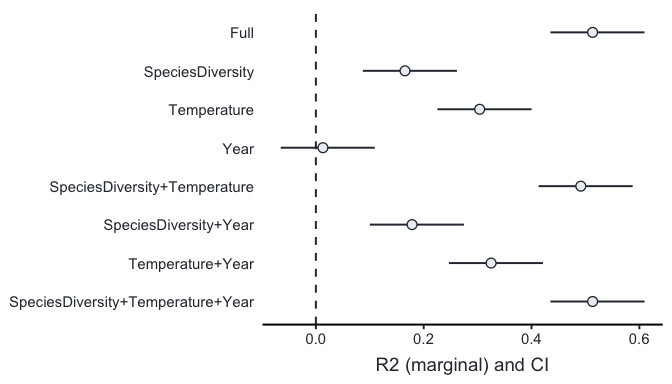
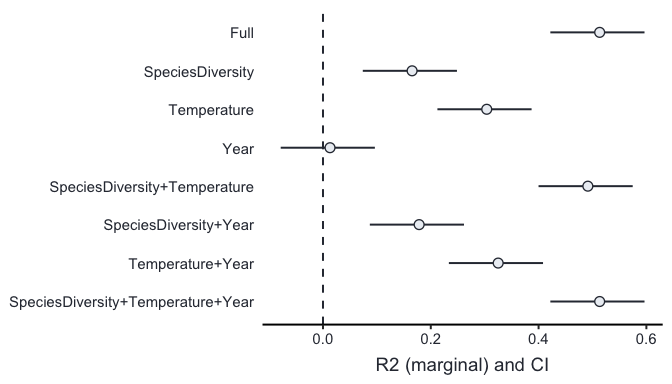
readme updated

diff --git a/README.md b/README.md
@@ -5,21 +5,26 @@ Status](https://travis-ci.org/mastoffel/partR2.svg?branch=master)
 
 # partR2
 
-The goal of partR2 is to provide an estimate of R<sup>2</sup> in GLMMs
-and to partition the R<sup>2</sup> into the variance explained by each
-model component and by their combinations.
+The goal of partR2 is to estimate R<sup>2</sup> in GLMMs (sensu Nakagawa
+& Schielzeth 2013) and to partition the R<sup>2</sup> into the variance
+explained by the predictors.
 
-In addition to R<sup>2</sup> and partial R<sup>2</sup>’s the partR2
-package calculates structure coefficients (SC). SC show the correlation
-between a fixed effect and the predicted response and give an intuition
-of the contribution of that fixed effect to the model prediction,
-independent of all other predictors. Finally, partR2 also reports the
-model estimates, i.e. the slopes and variances.
+The package takes a fitted lme4 model as input and gives you:
+
+  - R<sup>2</sup> (marginal or conditional)
+  - Semi-partial R<sup>2</sup>, the variance explained uniquely by each
+    predictor and combinations of predictors
+  - Inclusive R<sup>2</sup>, the variance explained by a predictor
+    independent of all other predictors
+  - Structure coefficients, the correlation between a predictor and the
+    fitted response
+  - Beta weights, standardised model estimates
 
 All estimates can be combined with parametric bootstrapping to get
 confidence intervals.
 
-partR2 is in an early phase of development and might still contain bugs.
+partR2 is in an early phase of development and despite a lot of testing
+might still contain bugs, so be careful and thoughtful when using it.
 
 ## Installation
 
@@ -27,7 +32,7 @@ You can install partR2 from github with:
 
 ``` r
 # install.packages("devtools")
-devtools::install_github("mastoffel/partR2")
+devtools::install_github("mastoffel/partR2", build_vignettes = TRUE)
 ```
 
 ## Example
@@ -43,7 +48,7 @@ data(biomass)
 # fit lme4 model
 mod <- lmer(Biomass ~  Year + Temperature + SpeciesDiversity + (1|Population),
             data = biomass)
-
+# R2s and partial R2s
 (R2 <- partR2(mod,  partvars = c("SpeciesDiversity", "Temperature", "Year"),
                                  R2_type = "marginal", nboot = 100, CI = 0.95,
                                  data = biomass))
@@ -51,20 +56,20 @@ mod <- lmer(Biomass ~  Year + Temperature + SpeciesDiversity + (1|Population),
 #> 
 #> R2 (marginal) and 95% CI for the full model: 
 #>  R2     CI_lower CI_upper nboot ndf
-#>  0.5133 0.435    0.6096   100   4  
+#>  0.5133 0.4218   0.5965   100   4  
 #> 
 #> ----------
 #> 
 #> Partitioned R2s:
 #>  Predictor(s)                      R2     CI_lower CI_upper nboot ndf
-#>  Model                             0.5133  0.4350  0.6096   100   4  
-#>  SpeciesDiversity                  0.1653  0.0870  0.2616   100   3  
-#>  Temperature                       0.3038  0.2255  0.4001   100   3  
-#>  Year                              0.0130 -0.0653  0.1093   100   3  
-#>  SpeciesDiversity+Temperature      0.4914  0.4131  0.5877   100   2  
-#>  SpeciesDiversity+Year             0.1784  0.1001  0.2747   100   2  
-#>  Temperature+Year                  0.3250  0.2467  0.4213   100   2  
-#>  SpeciesDiversity+Temperature+Year 0.5133  0.4350  0.6096   100   1
+#>  Model                             0.5133  0.4218  0.5965   100   4  
+#>  SpeciesDiversity                  0.1653  0.0738  0.2485   100   3  
+#>  Temperature                       0.3038  0.2123  0.3870   100   3  
+#>  Year                              0.0130 -0.0785  0.0963   100   3  
+#>  SpeciesDiversity+Temperature      0.4914  0.3999  0.5746   100   2  
+#>  SpeciesDiversity+Year             0.1784  0.0869  0.2616   100   2  
+#>  Temperature+Year                  0.3250  0.2335  0.4083   100   2  
+#>  SpeciesDiversity+Temperature+Year 0.5133  0.4218  0.5965   100   1
 ```
 
 And to plot the
